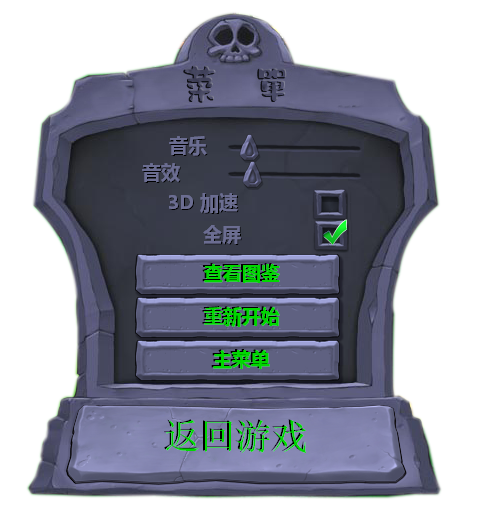
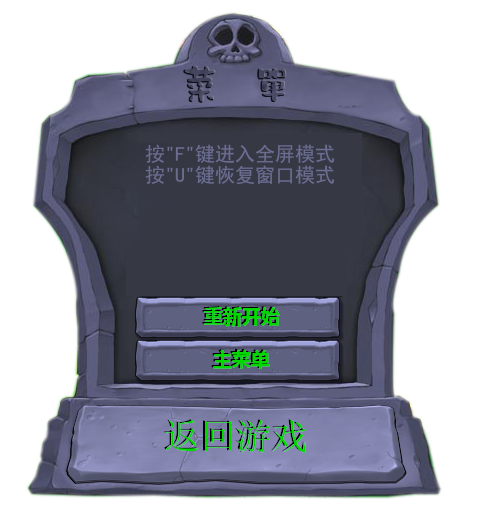
增加全屏模式快捷键

Changed region(s): [[0.2812, 0.2443, 0.75, 0.5802]]

diff --git a/source/tool.py b/source/tool.py
@@ -80,14 +80,16 @@ class Control():
                 self.done = True
             elif event.type == pg.KEYDOWN:
                 self.keys = pg.key.get_pressed()
+                if event.key == pg.K_f:
+                    SCREEN = pg.display.set_mode(c.SCREEN_SIZE, pg.FULLSCREEN)
+                elif event.key == pg.K_u:
+                    SCREEN = pg.display.set_mode(c.SCREEN_SIZE)
             elif event.type == pg.KEYUP:
                 self.keys = pg.key.get_pressed()
             elif event.type == pg.MOUSEBUTTONDOWN:
                 self.mouse_pos = pg.mouse.get_pos()
                 self.mouse_click[0], _, self.mouse_click[1] = pg.mouse.get_pressed()
                 print('pos:', self.mouse_pos, ' mouse:', self.mouse_click)
-            #else:
-            #    print(pg.event.event_name(event.type))
 
 
     def run(self):
